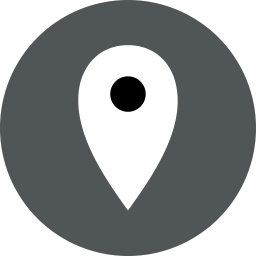
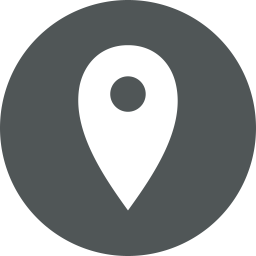
final fixes to account for rect and circle objects

Changed region(s): [[0.4062, 0.2812, 0.5938, 0.4375]]

diff --git a/generate_icons.py b/generate_icons.py
@@ -355,7 +355,10 @@ def find_colour_rgb(object_name, color='rgb'):
     return None
 
 def process_svg(svg_content, colour_rgb):
-    return svg_content.replace('<path', f'<path style="fill:rgb({colour_rgb})"')
+    svg_content = svg_content.replace('<path', f'<path style="fill:rgb({colour_rgb})"')
+    svg_content = svg_content.replace('<rect', f'<rect style="fill:rgb({colour_rgb})"')
+    svg_content = svg_content.replace('<circle', f'<circle style="fill:rgb({colour_rgb})"')
+    return svg_content
 
 def convert_svg_to_png(svg_path, png_path):
     try:
